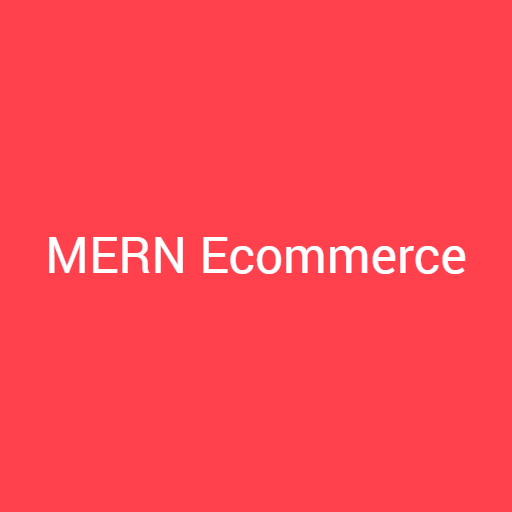
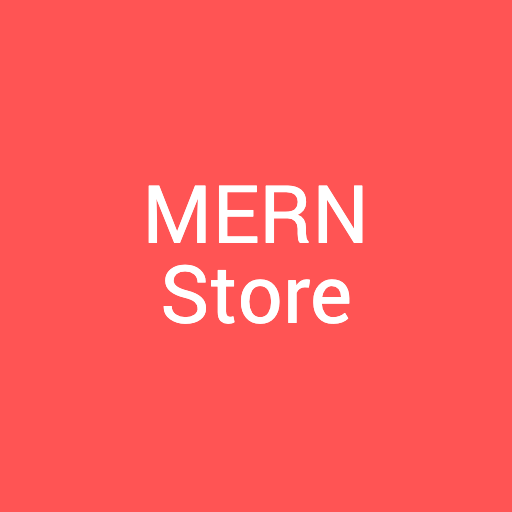
integrate google auth

Changed region(s): [[0.0938, 0.3438, 0.9062, 0.6562]]

diff --git a/server/routes/api/auth.js b/server/routes/api/auth.js
@@ -3,6 +3,8 @@ const router = express.Router();
 const bcrypt = require('bcryptjs');
 const jwt = require('jsonwebtoken');
 const crypto = require('crypto');
+const passport = require('passport');
+
 const auth = require('../../middleware/auth');
 
 // Bring in Models & Helpers
@@ -12,6 +14,7 @@ const mailgun = require('../../services/mailgun');
 const keys = require('../../config/keys');
 
 const { secret, tokenLife } = keys.jwt;
+const { clientURL } = keys.app;
 
 router.post('/login', (req, res) => {
   const email = req.body.email;
@@ -31,6 +34,13 @@ router.post('/login', (req, res) => {
         .status(400)
         .send({ error: 'No user found for this email address.' });
     }
+
+    if (!user) {
+      return res
+        .status(400)
+        .send({ error: 'No user found for this email address.' });
+    }
+
     bcrypt.compare(password, user.password).then(isMatch => {
       if (isMatch) {
         const payload = {
@@ -43,11 +53,8 @@ router.post('/login', (req, res) => {
             token: `Bearer ${token}`,
             user: {
               id: user.id,
-              profile: {
-                firstName: user.profile.firstName,
-                lastName: user.profile.lastName,
-                is_subscribed: user.profile.is_subscribed
-              },
+              firstName: user.firstName,
+              lastName: user.lastName,
               email: user.email,
               role: user.role
             }
@@ -105,7 +112,8 @@ router.post('/register', (req, res) => {
     const user = new User({
       email,
       password,
-      profile: { firstName, lastName }
+      firstName,
+      lastName
     });
 
     bcrypt.genSalt(10, (err, salt) => {
@@ -138,10 +146,8 @@ router.post('/register', (req, res) => {
               token: `Bearer ${token}`,
               user: {
                 id: user.id,
-                profile: {
-                  firstName: user.profile.firstName,
-                  lastName: user.profile.lastName
-                },
+                firstName: user.firstName,
+                lastName: user.lastName,
                 email: user.email,
                 role: user.role
               }
@@ -306,5 +312,39 @@ router.post('/reset', auth, (req, res) => {
     });
   });
 });
+
+router.get(
+  '/google',
+  passport.authenticate('google', {
+    session: false,
+    scope: ['profile', 'email'],
+    accessType: 'offline',
+    approvalPrompt: 'force'
+  })
+);
+
+router.get(
+  '/google/callback',
+  passport.authenticate('google', {
+    failureRedirect: '/login',
+    session: false
+  }),
+  (req, res) => {
+    console.log('clientURL', clientURL);
+
+    // res.json({ success: true });
+
+    res.redirect('/');
+
+    // res.redirect(`${clientURL}`);
+
+    // return res
+    //   .status(200)
+    //   .cookie('jwt', signToken(req.user), {
+    //     httpOnly: true
+    //   })
+    //   .redirect('/');
+  }
+);
 
 module.exports = router;

diff --git a/server/config/passport.js b/server/config/passport.js
@@ -1,8 +1,14 @@
+const passport = require('passport');
 const JwtStrategy = require('passport-jwt').Strategy;
+const GoogleStrategy = require('passport-google-oauth2').Strategy;
+
 const ExtractJwt = require('passport-jwt').ExtractJwt;
 const mongoose = require('mongoose');
 
 const keys = require('./keys');
+
+const { clientID, clientSecret, callbackURL } = keys.google;
+const { serverURL, apiURL } = keys.app;
 
 const User = mongoose.model('User');
 const secret = keys.jwt.secret;
@@ -11,19 +17,57 @@ const opts = {};
 opts.jwtFromRequest = ExtractJwt.fromAuthHeaderAsBearerToken();
 opts.secretOrKey = secret;
 
-module.exports = passport => {
-  passport.use(
-    new JwtStrategy(opts, (payload, done) => {
-      User.findById(payload.id)
+passport.use(
+  new JwtStrategy(opts, (payload, done) => {
+    User.findById(payload.id)
+      .then(user => {
+        if (user) {
+          return done(null, user);
+        }
+        return done(null, false);
+      })
+      .catch(err => {
+        return done(err, false);
+      });
+  })
+);
+
+passport.use(
+  new GoogleStrategy(
+    {
+      clientID: clientID,
+      clientSecret: clientSecret,
+      callbackURL: `${serverURL}/${apiURL}/${callbackURL}`
+    },
+    (accessToken, refreshToken, profile, done) => {
+      User.findOne({ email: profile.email })
         .then(user => {
           if (user) {
             return done(null, user);
           }
-          return done(null, false);
+
+          const name = profile.displayName.split(' ');
+
+          const createdUser = new User({
+            provider: 'google',
+            googleId: profile.id,
+            email: profile.email,
+            firstName: name[0],
+            lastName: name[1],
+            avatar: profile.picture
+          });
+
+          createdUser.save((err, user) => {
+            if (err) {
+              return done(err, false);
+            }
+
+            return done(null, user);
+          });
         })
         .catch(err => {
           return done(err, false);
         });
-    })
-  );
-};
+    }
+  )
+);

diff --git a/client/app/components/SignupProvider/index.js b/client/app/components/SignupProvider/index.js
@@ -7,22 +7,30 @@
 import React from 'react';
 
 import { GoogleIcon, FacebookIcon } from '../Icon';
-import { GOOGLE_CALLBACK_URL, FACEBOOK_CALLBACK_URL } from '../../constants';
+import {
+  GOOGLE_CALLBACK_URL,
+  FACEBOOK_CALLBACK_URL,
+  BASE_API_URL
+} from '../../constants';
 
 const SignupProvider = props => {
   return (
     <div className='signup-provider'>
-      <a href={`${GOOGLE_CALLBACK_URL}`} className='google-btn'>
+      <a href={`${BASE_API_URL}/auth/google`} className='google-btn'>
         <GoogleIcon />
         <span className='btn-text'>Login with Google</span>
       </a>
 
-      <a href={`${FACEBOOK_CALLBACK_URL}`} className='facebook-btn'>
+      <a href={`${BASE_API_URL}/auth/facebook`} className='facebook-btn'>
         <FacebookIcon />
         <span className='btn-text'>Login with Facebook</span>
       </a>
     </div>
   );
 };
+
+// ${GOOGLE_CALLBACK_URL}
+
+// ${process.env.BASE_API_URL}/auth/google
 
 export default SignupProvider;

diff --git a/server/config/keys.js b/server/config/keys.js
@@ -1,13 +1,13 @@
 module.exports = {
   app: {
-    name: 'Mern Ecommerce'
+    name: 'Mern Ecommerce',
+    apiURL: `${process.env.BASE_API_URL}`,
+    serverURL: process.env.BASE_SERVER_URL,
+    clientURL: process.env.BASE_CLIENT_URL
   },
   port: process.env.PORT || 5000,
   database: {
     url: process.env.MONGO_URI
-  },
-  api: {
-    prefix: '/api'
   },
   jwt: {
     secret: process.env.JWT_SECRET,
@@ -21,5 +21,10 @@ module.exports = {
     key: process.env.MAILGUN_KEY,
     domain: process.env.MAILGUN_DOMAIN,
     sender: process.env.MAILGUN_EMAIL_SENDER
+  },
+  google: {
+    clientID: process.env.GOOGLE_CLIENT_ID,
+    clientSecret: process.env.GOOGLE_CLIENT_SECRET,
+    callbackURL: process.env.GOOGLE_CALLBACK_URL
   }
 };

diff --git a/client/app/constants.js b/client/app/constants.js
@@ -1,9 +1,5 @@
-export const GOOGLE_CALLBACK_URL =
-  process.env.NODE_ENV === 'production'
-    ? process.env.GOOGLE_CALLBACK_URL_PROD
-    : process.env.GOOGLE_CALLBACK_URL_DEV;
+export const BASE_API_URL = process.env.BASE_API_URL;
+export const GOOGLE_CALLBACK_URL = process.env.GOOGLE_CALLBACK_URL;
+export const FACEBOOK_CALLBACK_URL = process.env.FACEBOOK_CALLBACK_URL;
 
-export const FACEBOOK_CALLBACK_URL =
-  process.env.NODE_ENV === 'production'
-    ? process.env.FACEBOOK_CALLBACK_URL_PROD
-    : process.env.FACEBOOK_CALLBACK_URL_DEV;
+// export const GOOGLE_AUTH_LINK=

diff --git a/server/models/user.js b/server/models/user.js
@@ -8,13 +8,26 @@ const UserSchema = new Schema({
     type: String,
     required: true
   },
-  profile: {
-    firstName: { type: String },
-    lastName: { type: String }
+  firstName: {
+    type: String
+  },
+  lastName: {
+    type: String
   },
   password: {
+    type: String
+  },
+  provider: {
     type: String,
-    required: true
+    required: true,
+    default: 'email'
+  },
+  googleId: {
+    type: String,
+    unique: true
+  },
+  avatar: {
+    type: String
   },
   role: {
     type: String,

diff --git a/server/routes/index.js b/server/routes/index.js
@@ -1,8 +1,13 @@
 const router = require('express').Router();
 const apiRoutes = require('./api');
 
+const keys = require('../config/keys');
+const { apiURL } = keys.app;
+
+const api = `/${apiURL}`;
+
 // api routes
-router.use('/api', apiRoutes);
-router.use('/api', (req, res) => res.status(404).json('No API route found'));
+router.use(api, apiRoutes);
+router.use(api, (req, res) => res.status(404).json('No API route found'));
 
 module.exports = router;

diff --git a/client/app/components/AccountDetails/index.js b/client/app/components/AccountDetails/index.js
@@ -12,14 +12,7 @@ import Input from '../Input';
 import Button from '../../components/Button';
 
 const AccountDetails = props => {
-  const {
-    user,
-    profileData,
-    accountChange,
-    updateProfile,
-    unsubscribeFromNewsletter,
-    subscribeToNewsletter
-  } = props;
+  const { user, profileData, accountChange, updateProfile } = props;
 
   const handleSubmit = event => {
     event.preventDefault();

diff --git a/config/webpack/webpack.prod.js b/config/webpack/webpack.prod.js
@@ -126,9 +126,9 @@ module.exports = {
       filename: 'css/[name].[hash].css'
     }),
     new WebpackPwaManifest({
-      name: 'MERN Ecommerce',
-      short_name: 'MERNEcommerce',
-      description: 'MERN Ecommerce!',
+      name: 'MERN Store',
+      short_name: 'MERNStore',
+      description: 'MERN Store!',
       background_color: '#fff',
       theme_color: '#4a68aa',
       inject: true,

diff --git a/client/public/index.html b/client/public/index.html
@@ -5,7 +5,7 @@
     <meta name="viewport" content="width=device-width, initial-scale=1.0" />
     <meta http-equiv="X-UA-Compatible" content="ie=edge" />
     <link rel="icon" href="/images/favicon.ico" />
-    <title>MERN Ecommerce</title>
+    <title>MERN Store</title>
   </head>
   <body>
     <noscript> You need to enable JavaScript to run this app. </noscript>

diff --git a/server/index.js b/server/index.js
@@ -36,7 +36,7 @@ mongoose
   )
   .catch(err => console.log(err));
 
-require('./config/passport')(passport);
+require('./config/passport');
 app.use(routes);
 
 // if development

diff --git a/server/routes/api/cart.js b/server/routes/api/cart.js
@@ -86,7 +86,7 @@ const decreaseQuantity = products => {
     };
   });
 
-  Product.bulkWrite(bulkOptions, {});
+  Product.bulkWrite(bulkOptions);
 };
 
 module.exports = router;
